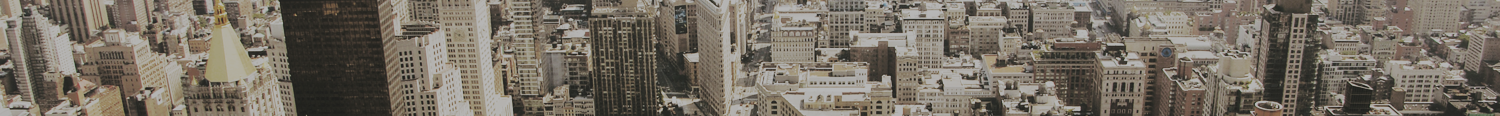
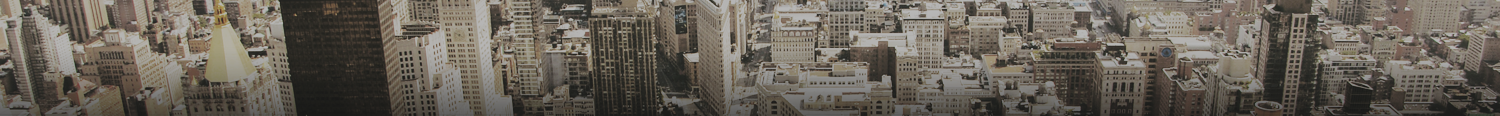
push

Changed region(s): [[0.2453, 0.6207, 1.0, 1.0], [0.0, 0.6207, 0.2147, 1.0]]

diff --git a/style.css b/style.css
@@ -64,10 +64,10 @@ button{margin: 0px; padding: 12px 45px; border: none;   -moz-border-radius: 5px;
 .main .excerpt{font-size: 24px; color: #247c75; line-height: 36px;margin-bottom: 30px; font-weight: lighter;}
 .main h3{font-size: 18px; font-weight: lighter; color: #222; margin-bottom: 20px;}
 .left-col{border-right: 1px solid #eaeaea; padding: 0px 50px 0px 0px;}
-.left-col h2,.main h2{font-size: 32px; font-weight: lighter; color: #f7742c; margin-bottom: 32px;}
+.left-col h2,.main h2{font-size: 32px; font-weight: lighter; color: #f7742c; margin-bottom: 12px;}
 .left-col p,.main p{line-height: 24px; margin-bottom: 20px;}
 .right-col{padding: 0px 0px 0px 50px;}
-.titlearea{padding: 0px 0px 10px 0px; background-image: url('images/titlearea.png'); background-repeat: no-repeat; background-size: cover;}
+.titlearea{padding: 0px 0px 10px 0px; background-image: url('images/titlearea2.png'); background-repeat: no-repeat; background-size: cover;}
 .titlearea h1{font-size: 28px; color: #fff; font-weight: lighter;}
 .alignright{float: right; margin: 10px 0px 10px 15px;}
 .jobs-list h2{font-size: 21px; margin: 10px 0px 2px 0px; border: none;}
@@ -79,9 +79,13 @@ ul#jobslist li{display: block; list-style-type: none; font-size: 14px; margin: 0
 ul#jobslist li a{color: #444; font-weight: normal; margin: 0px 0px 10px 0px;}
 ul#jobslist li a:hover{color: #ee8548; font-weight: normal; margin: 0px 0px 10px 0px; text-decoration: none;}
 ul#jobslist li .date{color: #17aa9f; font-size: 12px; margin: 5px 0px 0px 0px;}
-.postedby{padding: 4px 0px 4px 0px; margin: -20px 0px 30px 0px; font-size: 12px; color: #a2a2a2; font-style: italic; border-bottom: 1px solid #e9e9e9;}
-.social-icons a{color: #fff; font-family: 'ElegantIcons';float: left;text-decoration: none;font-size: 1.5em;line-height: 1;}
-
+.postedby{padding: 4px 0px 4px 0px; margin: -10px 0px 30px 0px; font-size: 12px; color: #a2a2a2; font-style: italic; border-bottom: 1px solid #e9e9e9;}
+.social-icons{ float: right; border-left: 1px solid #01beb6; padding: 0px 0px 0px 30px;}
+.social-icons span{color: #fff; font-family: 'ElegantIcons'; float: left; text-decoration: none; font-size: 1.2em;line-height: 1; content: ""; margin: 0px 0px 0px 3px;}
+.social-icons span:before{display: none !important;}
+.call{float: right;}
+.breadcrumbs {color: #fff;}
+.breadcrumbs a{color: #fc6a14;}
 
 /*makes the slider occupy 100% of parent element*/
 /*.sy-box, .sy-slide > a,.sy-slide > a > img{

diff --git a/css/slippry.css b/css/slippry.css
@@ -328,7 +328,7 @@
   width: 2.8em;
   height: 2.8em;
   left: 50%;
-  top: 50%;
+  top: 60%;
   margin-top: -1.4em;
   margin-left: -1.4em;
   -webkit-border-radius: 50%;
@@ -356,7 +356,7 @@
 /* captions, styled fo the overlay variant */
 .sy-caption-wrap {
   position: absolute;
-  top: 45%;
+  top: 55%;
   z-index: 12;
   left: 35%;
 }
@@ -366,6 +366,7 @@
   font-size: 40px;
   color: #fff;
   padding: 0.4em 1em;
+  text-align: left;
 
 }
 .sy-caption-wrap .sy-caption a:link, .sy-caption-wrap .sy-caption a:visited {

diff --git a/header-sub.php b/header-sub.php
@@ -30,6 +30,9 @@
 	<link rel="pingback" href="<?php bloginfo('pingback_url'); ?>" />
 	<?php if ( is_singular() ) wp_enqueue_script( 'comment-reply' ); ?>
 	<link href="<?php bloginfo( 'template_directory' ); ?>/css/bootstrap.css" rel="stylesheet">
+	<link href="<?php bloginfo( 'template_directory' ); ?>/css/slippry.css" rel="stylesheet">
+	<link href="<?php bloginfo( 'template_directory' ); ?>/css/icons.css" rel="stylesheet">
+
 
 
 	<!-- HTML5 Shim and Respond.js IE8 support of HTML5 elements and media queries -->
@@ -48,13 +51,21 @@
 	  			<div class="col-md-8">
 		  			Over 20 years experience in temp staffing as well as direct hire professional services
 		  		</div>
-		  		<div class="col-md-4">
-		  			Call Us Today: 210-222-222
+		  		<div class="col-md-2">
+		  			<div class="call">Call Today: 210-222-222</div>
 		  		</div>
+		  		<div class="col-md-2">	
+		  			<div class="social-icons">
+			  			<a href="#" title="Follow me on Twitter"><span class="social_twitter_circle" aria-hidden="true"></span></a>
+			  			<a href="#" title="Follow me on Facebook"><span class="social_facebook_circle" aria-hidden="true"></span></a>
+			  			<a href="#" title="Follow me on YouTube"><span class="social_youtube_circle" aria-hidden="true"></span></a>
+			  			<a href="#" title="Follow me on Google+"><span class="social_googleplus_circle" aria-hidden="true"></span></a>
+			  		</div>
+			  	</div>	
   			</div>
   			<div class="col-md-3">
   				<div class="logo">
-	  				<a href="http://localhost/MarCal/"><img src="<?php bloginfo( 'template_directory' ); ?>/images/logo.png" alt="MarCal Recruiting"/></a>
+	  				<a href="http://localhost/MarCal/"><img src="<?php bloginfo( 'template_directory' ); ?>/images/logo.svg" alt="MarCal Recruiting"/></a>
 	  			</div>
   			</div>
   			<div class="col-md-9 menu">

diff --git a/header.php b/header.php
@@ -49,20 +49,21 @@
 	  			<div class="col-md-8">
 		  			Over 20 years experience in temp staffing as well as direct hire professional services
 		  		</div>
-		  		<div class="col-md-4">
-		  			Call Us Today: 210-222-222
-
+		  		<div class="col-md-2">
+		  			<div class="call">Call Today: 210-222-222</div>
+		  		</div>
+		  		<div class="col-md-2">	
 		  			<div class="social-icons">
 			  			<a href="#" title="Follow me on Twitter"><span class="social_twitter_circle" aria-hidden="true"></span></a>
 			  			<a href="#" title="Follow me on Facebook"><span class="social_facebook_circle" aria-hidden="true"></span></a>
 			  			<a href="#" title="Follow me on YouTube"><span class="social_youtube_circle" aria-hidden="true"></span></a>
 			  			<a href="#" title="Follow me on Google+"><span class="social_googleplus_circle" aria-hidden="true"></span></a>
 			  		</div>
-		  		</div>
+			  	</div>	
   			</div>
   			<div class="col-md-3">
   				<div class="logo">
-	  				<a href="#"><img src="<?php bloginfo( 'template_directory' ); ?>/images/logo.png" alt="MarCal Recruiting"/></a>
+	  				<a href="#"><img src="<?php bloginfo( 'template_directory' ); ?>/images/logo.svg" alt="MarCal Recruiting"/></a>
 	  			</div>
   			</div>
   			<div class="col-md-9 menu">

diff --git a/page-jobsearch.php b/page-jobsearch.php
@@ -11,20 +11,31 @@
 get_header('sub'); ?>
 <?php get_template_part('part','titlearea');?>
   	<section class="white">
-	  	<div class="container main jobs-list light">
-	  		<div class="col-md-6">
-		  		<?php
-			  		// the query
-			  		$args = array(
-			  		'post_type' => 'jobs',
-			  		'posts_per_page'=> 12
-			  		);
-			  		$get_resources = new WP_Query( $args );
-			  		?>
+	  	<div class="container main ">
 
-			  	<?php if ( $get_resources->have_posts() ) : ?>
+	  	<div class="col-lg-12">
+	  		<?php if (have_posts()) : while (have_posts()) : the_post(); ?>
 
-			  	<?php while ( $get_resources->have_posts() ) : $get_resources->the_post(); ?>
+				<?php the_content(); ?>
+
+			<?php endwhile; endif; ?>
+	  	</div>
+
+	  		 <?php
+			 // the query
+			 $args = array(
+			 'post_type' => 'jobs',
+			 'posts_per_page'=> 12
+			 );
+			 
+			 $get_resources = new WP_Query( $args ); ?>
+
+			 <?php if ( $get_resources->have_posts() ) : ?>
+
+			 <?php while ( $get_resources->have_posts() ) : $get_resources->the_post(); ?>
+
+	  		<div class="col-md-6 jobs-list">
+	
 		  		<h2><a href="<?php the_permalink(); ?>"><?php the_title();?></a></h2>
 		  		<?php the_excerpt();?>
 

diff --git a/part-titlearea.php b/part-titlearea.php
@@ -2,7 +2,10 @@
 	<div class="container">
 		<h1><?php the_title(); ?></h1>
 		<div class="breadcrumbs">
-			Home  >   About MarCal
+    	<?php if(function_exists('bcn_display'))
+    		{
+        	bcn_display();
+    		}?>
 		</div>
 	</div>
 </section>
